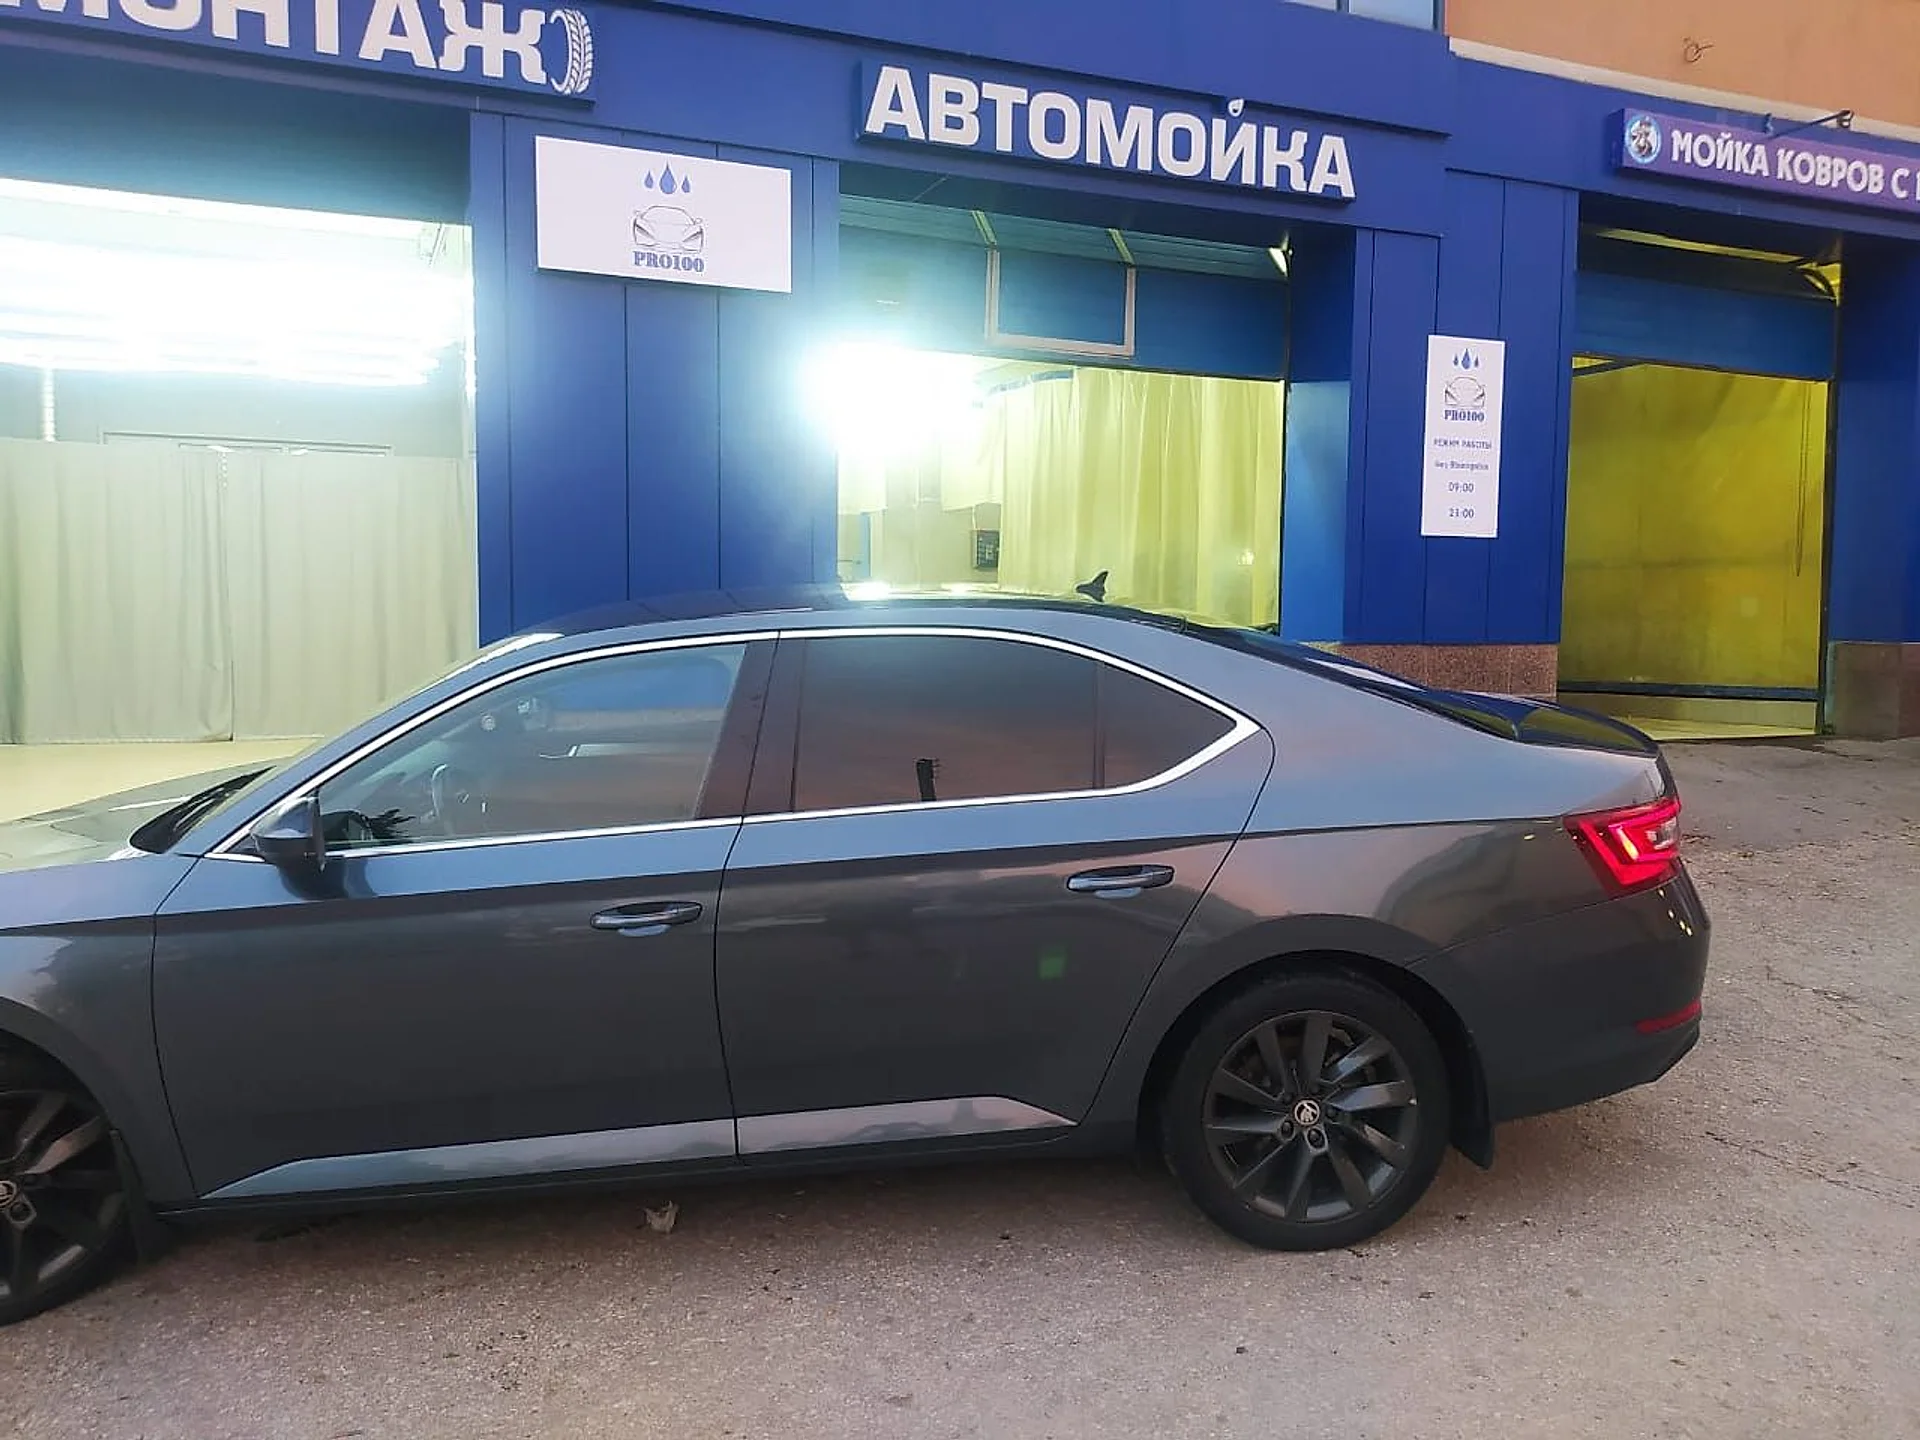
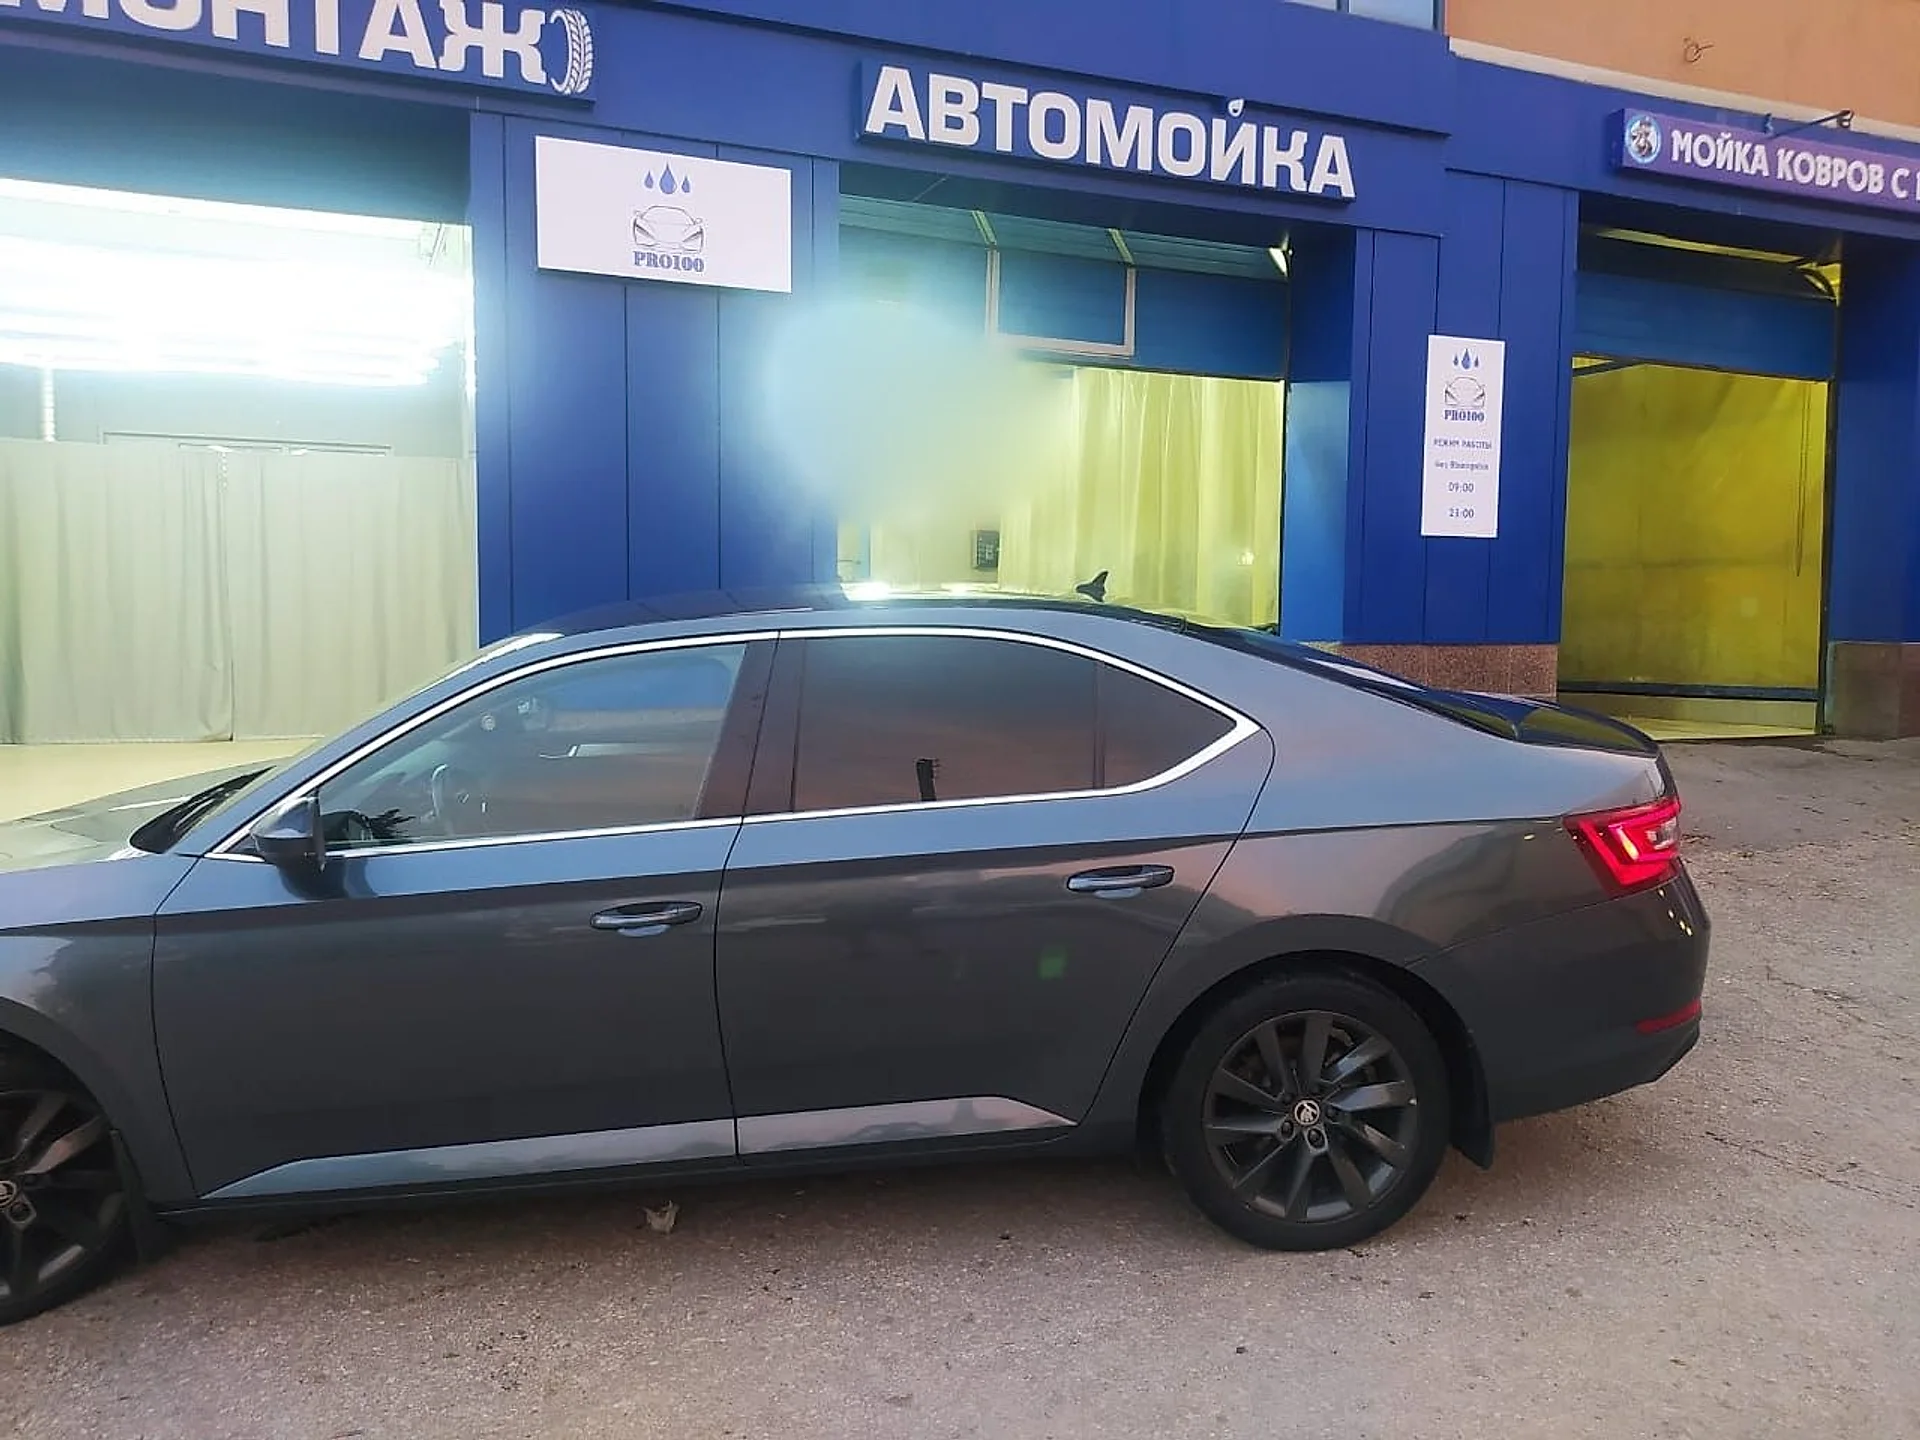
Первый экран: убрана вспышка лампы на фоне

Changed region(s): [[0.4062, 0.2188, 0.5625, 0.375]]

diff --git a/style-prod.css b/style-prod.css
@@ -208,7 +208,7 @@ html, body, h1, h2, h3, p, li { hyphens: none; -webkit-hyphens: none; }
 html, body { overflow-x: clip; }
 /* яркий первый экран: фото почти в полную силу, затемнение только под текстом слева и внизу */
 .s-hero__bg { height: min(94%, 780px); }
-.s-hero__bg img { opacity: 1; filter: saturate(1.12) brightness(1.2) contrast(1.04); }
+.s-hero__bg img { opacity: 1; filter: saturate(1.12) brightness(1.1) contrast(1.04); }
 .s-hero__bg::after { background:
   linear-gradient(90deg, color-mix(in srgb, var(--c-canvas) 84%, transparent) 0%, color-mix(in srgb, var(--c-canvas) 62%, transparent) 30%, color-mix(in srgb, var(--c-canvas) 12%, transparent) 56%, transparent 72%),
   linear-gradient(180deg, transparent 0%, transparent 62%, var(--c-canvas) 100%); }
